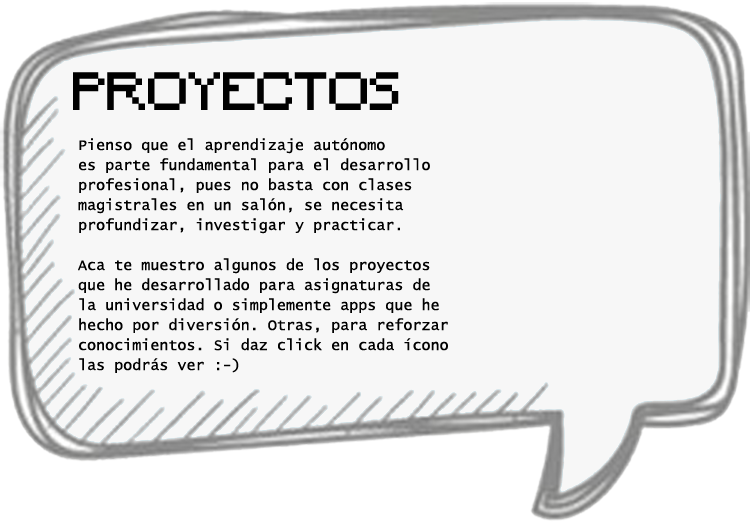
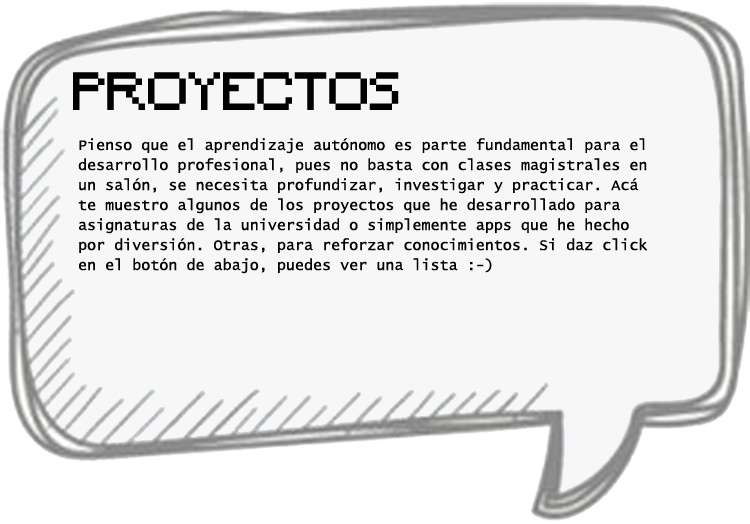
modal proyecto finalizado,

Changed region(s): [[0.092, 0.2443, 0.8587, 0.7328]]

diff --git a/estados/juego.js b/estados/juego.js
@@ -331,6 +331,44 @@ var Juego = {
 	            ]
 	   		})
 		}
+		else if(fondo == "modalProyectos") {
+			modal.createModal({
+	            type:"modal",
+	            includeBackground: true,
+	            modalCloseOnInput: true,
+	  			itemsArr: [
+	                {
+	                    type: "image",
+	                    content: fondo,
+	                    offsetY: -10,
+	                    offsetX: 10,
+	                    contentScale: 1
+	            	},
+
+	            	{
+	                    type: "image",
+	                    content: "btnProyectos",
+	                    offsetY: 70,
+	                    offsetX: 0,
+	                    contentScale: 0.5,
+	                    callback: function () {
+	                    	window.open("http://carmoreno.github.io/proyectos")	
+	                    }
+		            },
+	            	{
+	                    type : "text",
+	                    content: "X",
+	                    fontSize: 45,
+	                    color: "0x000000",
+	                    offsetY: -220,
+	                    offsetX: 300,
+	                    callback: function(){
+	                    	modal.hideModal("modal")
+	                    }
+	            	}
+	            ]
+	   		})
+		}
 		else {
 			modal.createModal({
 	            type:"modal",

diff --git a/estados/preloader.js b/estados/preloader.js
@@ -31,6 +31,7 @@ var Preloader = {
 		juego.load.image('botonCP', 'imgs/botonCP.png')
 		juego.load.image('botonST', 'imgs/botonST.png')
 		juego.load.image('btnDownload', 'imgs/botonDescargar.png')
+		juego.load.image('btnProyectos', 'imgs/btnProyectos.png')
 		juego.load.spritesheet('boxPregunta', 'imgs/secreto.png', 20, 18)
 		juego.load.spritesheet('botones', 'imgs/btns.png', 100, 67.8)
 		juego.load.spritesheet('btnBandera', 'imgs/btnBandera.png', 100.5, 68)

diff --git a/index.html b/index.html
@@ -16,6 +16,5 @@
 	<script src="estados/main.js"></script>
 </head>
 <body>
-	<!-- <div id="div_juego"></div> -->
 </body>
 </html>

diff --git a/css/estilos.css b/css/estilos.css
@@ -3,7 +3,3 @@ html, body {
 	padding: 0 ;
 	background-color: #dedede;
 }
-
-canvas{
-	margin:0 auto !important;
-}
